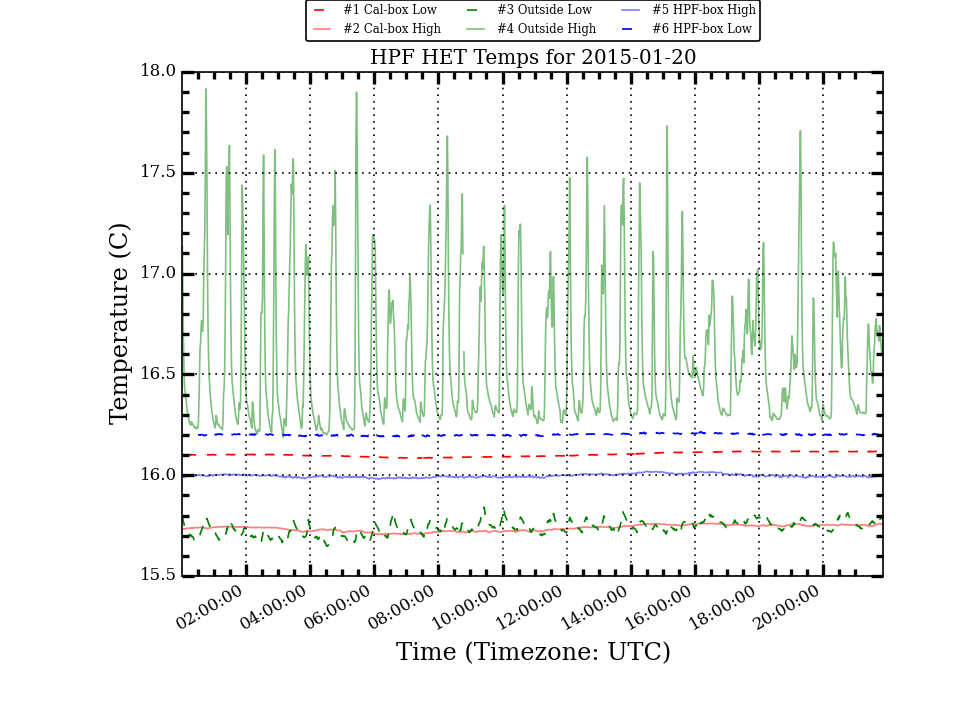
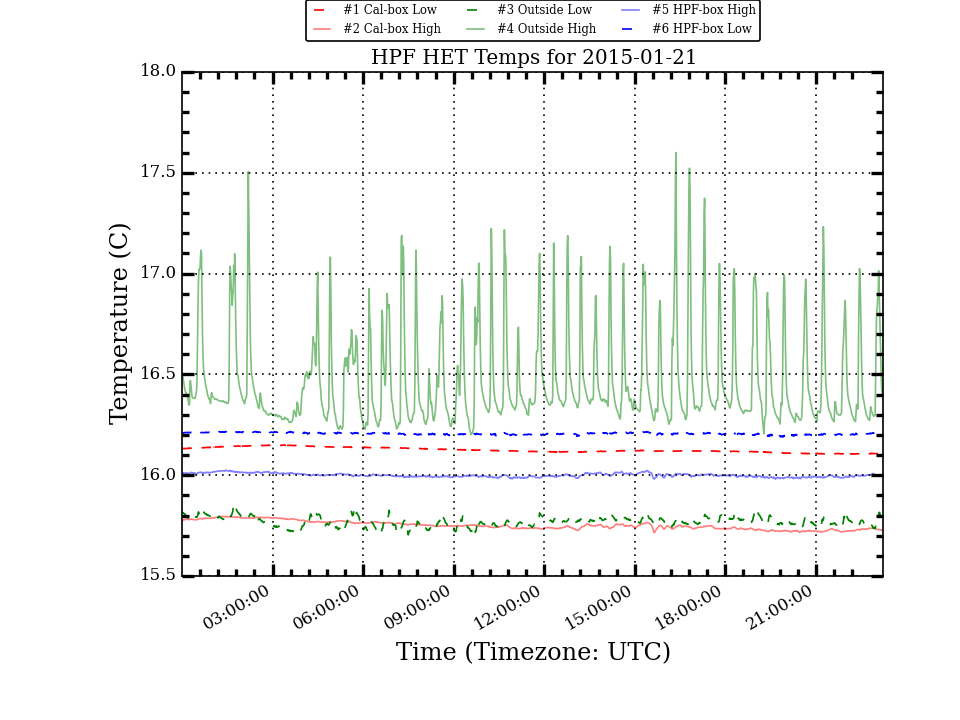
Update HPF Temp Plots

Changed region(s): [[0.1875, 0.1833, 0.9375, 0.6722], [0.1875, 0.7028, 0.9375, 0.8861], [0.2188, 0.0611, 0.9062, 0.1222]]

diff --git a/research/hpf_temps/plots/LakeShoreLogTotal_today_stats.html b/research/hpf_temps/plots/LakeShoreLogTotal_today_stats.html
@@ -10,56 +10,56 @@
  </TR>
  <TR>
   <TD>Cal_Low</TD>
-  <TD>16.103</TD>
-  <TD>0.011</TD>
-  <TD>16.101</TD>
-  <TD>16.120</TD>
-  <TD>16.084</TD>
-  <TD>0.036</TD>
+  <TD>16.125</TD>
+  <TD>0.013</TD>
+  <TD>16.121</TD>
+  <TD>16.150</TD>
+  <TD>16.104</TD>
+  <TD>0.046</TD>
  </TR>
  <TR>
   <TD>Cal_High</TD>
-  <TD>15.737</TD>
-  <TD>0.015</TD>
-  <TD>15.740</TD>
-  <TD>15.762</TD>
-  <TD>15.705</TD>
-  <TD>0.057</TD>
+  <TD>15.751</TD>
+  <TD>0.021</TD>
+  <TD>15.748</TD>
+  <TD>15.796</TD>
+  <TD>15.715</TD>
+  <TD>0.081</TD>
  </TR>
  <TR>
   <TD>Out_Low</TD>
-  <TD>15.740</TD>
-  <TD>0.034</TD>
-  <TD>15.740</TD>
-  <TD>15.842</TD>
-  <TD>15.648</TD>
-  <TD>0.194</TD>
+  <TD>15.769</TD>
+  <TD>0.024</TD>
+  <TD>15.770</TD>
+  <TD>15.858</TD>
+  <TD>15.694</TD>
+  <TD>0.164</TD>
  </TR>
  <TR>
   <TD>Out_High</TD>
-  <TD>16.541</TD>
-  <TD>0.326</TD>
-  <TD>16.395</TD>
-  <TD>17.916</TD>
-  <TD>16.188</TD>
-  <TD>1.728</TD>
+  <TD>16.465</TD>
+  <TD>0.231</TD>
+  <TD>16.372</TD>
+  <TD>17.600</TD>
+  <TD>16.201</TD>
+  <TD>1.399</TD>
  </TR>
  <TR>
   <TD>HPF_High</TD>
-  <TD>15.997</TD>
-  <TD>0.008</TD>
-  <TD>15.996</TD>
-  <TD>16.020</TD>
+  <TD>16.000</TD>
+  <TD>0.009</TD>
+  <TD>15.998</TD>
+  <TD>16.025</TD>
   <TD>15.980</TD>
-  <TD>0.040</TD>
+  <TD>0.045</TD>
  </TR>
  <TR>
   <TD>HPF_Low</TD>
-  <TD>16.201</TD>
+  <TD>16.206</TD>
   <TD>0.005</TD>
-  <TD>16.201</TD>
-  <TD>16.216</TD>
-  <TD>16.187</TD>
-  <TD>0.029</TD>
+  <TD>16.206</TD>
+  <TD>16.219</TD>
+  <TD>16.188</TD>
+  <TD>0.031</TD>
  </TR>
 </TABLE>

diff --git a/research/hpf_temps/plots/LakeShoreLogTotal_stats.html b/research/hpf_temps/plots/LakeShoreLogTotal_stats.html
@@ -10,54 +10,54 @@
  </TR>
  <TR>
   <TD>Cal_Low</TD>
-  <TD>16.553</TD>
-  <TD>0.457</TD>
-  <TD>16.377</TD>
+  <TD>16.543</TD>
+  <TD>0.456</TD>
+  <TD>16.340</TD>
   <TD>17.410</TD>
   <TD>15.840</TD>
   <TD>1.570</TD>
  </TR>
  <TR>
   <TD>Cal_High</TD>
-  <TD>16.187</TD>
-  <TD>0.486</TD>
-  <TD>15.968</TD>
+  <TD>16.177</TD>
+  <TD>0.485</TD>
+  <TD>15.928</TD>
   <TD>17.114</TD>
   <TD>15.410</TD>
   <TD>1.704</TD>
  </TR>
  <TR>
   <TD>Out_Low</TD>
-  <TD>16.180</TD>
-  <TD>0.535</TD>
-  <TD>15.948</TD>
+  <TD>16.170</TD>
+  <TD>0.533</TD>
+  <TD>15.925</TD>
   <TD>17.201</TD>
   <TD>14.942</TD>
   <TD>2.259</TD>
  </TR>
  <TR>
   <TD>Out_High</TD>
-  <TD>16.852</TD>
-  <TD>0.590</TD>
-  <TD>16.726</TD>
+  <TD>16.842</TD>
+  <TD>0.586</TD>
+  <TD>16.712</TD>
   <TD>18.326</TD>
   <TD>14.104</TD>
   <TD>4.222</TD>
  </TR>
  <TR>
   <TD>HPF_High</TD>
-  <TD>16.229</TD>
-  <TD>0.466</TD>
-  <TD>16.038</TD>
+  <TD>16.224</TD>
+  <TD>0.462</TD>
+  <TD>16.035</TD>
   <TD>17.147</TD>
   <TD>15.149</TD>
   <TD>1.998</TD>
  </TR>
  <TR>
   <TD>HPF_Low</TD>
-  <TD>16.430</TD>
-  <TD>0.463</TD>
-  <TD>16.233</TD>
+  <TD>16.425</TD>
+  <TD>0.459</TD>
+  <TD>16.231</TD>
   <TD>17.356</TD>
   <TD>14.668</TD>
   <TD>2.688</TD>

diff --git a/research/hpf_temps/plots/LakeShoreLogTotal_week_stats.html b/research/hpf_temps/plots/LakeShoreLogTotal_week_stats.html
@@ -10,54 +10,54 @@
  </TR>
  <TR>
   <TD>Cal_Low</TD>
-  <TD>16.126</TD>
-  <TD>0.033</TD>
-  <TD>16.121</TD>
+  <TD>16.123</TD>
+  <TD>0.032</TD>
+  <TD>16.118</TD>
   <TD>16.202</TD>
   <TD>16.051</TD>
   <TD>0.151</TD>
  </TR>
  <TR>
   <TD>Cal_High</TD>
-  <TD>15.769</TD>
+  <TD>15.766</TD>
   <TD>0.040</TD>
-  <TD>15.764</TD>
+  <TD>15.756</TD>
   <TD>15.874</TD>
   <TD>15.674</TD>
   <TD>0.200</TD>
  </TR>
  <TR>
   <TD>Out_Low</TD>
-  <TD>15.731</TD>
-  <TD>0.060</TD>
-  <TD>15.730</TD>
+  <TD>15.736</TD>
+  <TD>0.059</TD>
+  <TD>15.739</TD>
   <TD>15.947</TD>
   <TD>15.463</TD>
   <TD>0.484</TD>
  </TR>
  <TR>
   <TD>Out_High</TD>
-  <TD>16.654</TD>
-  <TD>0.391</TD>
-  <TD>16.641</TD>
+  <TD>16.632</TD>
+  <TD>0.377</TD>
+  <TD>16.574</TD>
   <TD>18.326</TD>
   <TD>15.776</TD>
   <TD>2.550</TD>
  </TR>
  <TR>
   <TD>HPF_High</TD>
-  <TD>16.015</TD>
+  <TD>16.011</TD>
   <TD>0.018</TD>
-  <TD>16.015</TD>
+  <TD>16.007</TD>
   <TD>16.067</TD>
   <TD>15.970</TD>
   <TD>0.097</TD>
  </TR>
  <TR>
   <TD>HPF_Low</TD>
-  <TD>16.214</TD>
-  <TD>0.014</TD>
-  <TD>16.212</TD>
+  <TD>16.211</TD>
+  <TD>0.013</TD>
+  <TD>16.208</TD>
   <TD>16.250</TD>
   <TD>16.176</TD>
   <TD>0.074</TD>
